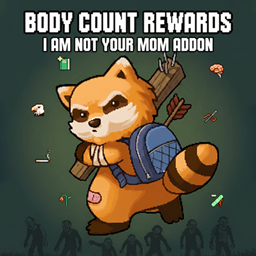
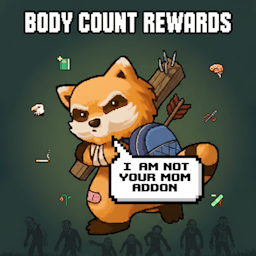
Update assets, workshop, readme

diff --git a/README.md b/README.md
@@ -1,4 +1,4 @@
-# BodyCountRewards — I Am Not Your Mom
+# BodyCountRewards (Addon) — I Am Not Your Mom
 
 > *I am not your mom. Add whatever unrealistic, overpowered traits you want.*
 